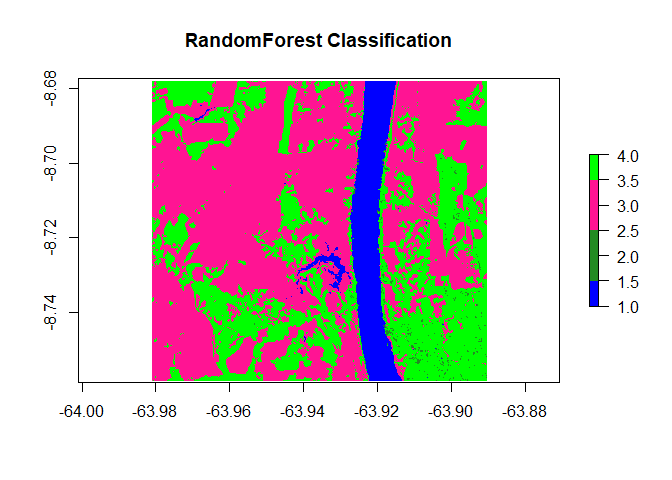
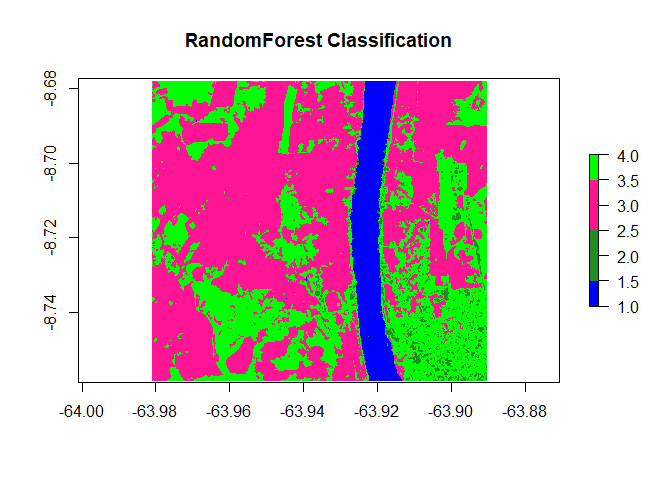
updating Rmd and .md - figures as well

diff --git a/README.md b/README.md
@@ -1,6 +1,4 @@
 
-<!-- README.md is generated from README.Rmd. Please edit that file -->
-
 # ForesToolboxRS <img src="man/figures/logo.png" align="right" width="150"/>
 
 [![License:
@@ -26,7 +24,6 @@ coverage](https://codecov.io/gh/ytarazona/ForesToolboxRS/branch/main/graph/badge
 algorithms for the processing and analysis of satellite images for the
 various applications of Remote Sensing for Earth Observations. All
 implemented algorithms are based on scientific publications.
-<!--there should be a list of references-->
 
   - Tarazona, Y., Maria, Miyasiro-Lopez. (2020). Monitoring tropical
     forest degradation using remote sensing. Challenges and
@@ -65,23 +62,23 @@ satellite images
 
 Available functions:
 
-| Name of functions       | Description                                                                                                                                                                                                                                                                                                         |
-| ----------------------- | ------------------------------------------------------------------------------------------------------------------------------------------------------------------------------------------------------------------------------------------------------------------------------------------------------------------- |
-| **`pvts()`**            | This algorithm will allow to detect disturbances in the forests using all the available Landsat set. In fact, it can also be run with sensors such as MODIS.                                                                                                                                                        |
-| **`pvtsRaster()`**      | This algorithm will allow to detect disturbances in the forests using all the available Landsat set. In fact, it can also be run with sensors such as MODIS.                                                                                                                                                        |
-| **`smootH()`**          | In order to eliminate outliers in the time series, a temporary smoothing is used.                                                                                                                                                                                                                                   |
-| **`mla()`**             | This developed function allows to execute supervised classification in satellite images through various algorithms.                                                                                                                                                                                                 |
-| **`calmla()`**          | This function allows to calibrate supervised classification in satellite images through various algorithms and using approches such as Set-Approach, Leave-One-Out Cross-Validation (LOOCV), Cross-Validation (k-fold) and Monte Carlo Cross-Validation (MCCV).                                                     |
-| **`rkmeans()`**         | This function allows to classify satellite images using k-means.                                                                                                                                                                                                                                                    |
-| **`calkmeans()`**       | This function allows to calibrate the kmeans algorithm. It is possible to obtain the best k value and the best embedded algorithm in kmeans.                                                                                                                                                                        |
-| **`coverChange()`**     | This algorithm is able to obtain gain and loss in land cover classification.                                                                                                                                                                                                                                        |
-| **`linearTrend()`**     | Linear trend is useful for mapping forest degradation, land degradation, among others. This algorithm is capable of obtaining the slope of an ordinary least-squares linear regression and its reliability (p-value).                                                                                               |
-| **`fusionRS()`**        | This algorithm allows to fusion images coming from different spectral sensors (e.g., optical-optical, optical and SAR or SAR-SAR). Among many of the qualities of this function, it is possible to obtain the contribution (%) of each variable in the fused image.                                                 |
-| **`sma()`**             | The SMA assumes that the energy received, within the field of vision of the remote sensor, can be considered as the sum of the energies received from each dominant endmember. This function addresses a Linear Mixing Model.                                                                                       |
-| **`ndfiSMA()`**         | The NDFI it is sensitive to the state of the canopy cover, and has been successfully applied to monitor forest degradation and deforestation in Peru and Brazil. This index comes from the endmembers Green Vegetation (GV), non-photosynthetic vegetation (NPV), Soil (S) and the reminder is the shade component. |
-| **`tct()`**             | The Tasseled-Cap Transformation is a linear transformation method for various remote sensing data. Not only can it perform volume data compression, but it can also provide parametersassociated with the physical characteristics, such as brightness, greenness and wetness indices.                              |
-| **`gevi()`**            | Greenness Vegetation Index is obtained from the Tasseled Cap Transformation.                                                                                                                                                                                                                                        |
-| **`MosaicFreeCloud()`** | A three-step algorithm for creating a mosaic from satellite imagery (see notes).                                                                                                                                                                                                                                    |
+| Name of functions   | Description                                                                                                                                                                                                                                                                                                         |
+| ------------------- | ------------------------------------------------------------------------------------------------------------------------------------------------------------------------------------------------------------------------------------------------------------------------------------------------------------------- |
+| **`pvts()`**        | This algorithm will allow to detect disturbances in the forests using all the available Landsat set. In fact, it can also be run with sensors such as MODIS.                                                                                                                                                        |
+| **`pvtsRaster()`**  | This algorithm will allow to detect disturbances in the forests using all the available Landsat set. In fact, it can also be run with sensors such as MODIS.                                                                                                                                                        |
+| **`smootH()`**      | In order to eliminate outliers in the time series, a temporary smoothing is used.                                                                                                                                                                                                                                   |
+| **`mla()`**         | This developed function allows to execute supervised classification in satellite images through various algorithms.                                                                                                                                                                                                 |
+| **`calmla()`**      | This function allows to calibrate supervised classification in satellite images through various algorithms and using approches such as Set-Approach, Leave-One-Out Cross-Validation (LOOCV), Cross-Validation (k-fold) and Monte Carlo Cross-Validation (MCCV).                                                     |
+| **`rkmeans()`**     | This function allows to classify satellite images using k-means.                                                                                                                                                                                                                                                    |
+| **`calkmeans()`**   | This function allows to calibrate the kmeans algorithm. It is possible to obtain the best k value and the best embedded algorithm in kmeans.                                                                                                                                                                        |
+| **`coverChange()`** | This algorithm is able to obtain gain and loss in land cover classification.                                                                                                                                                                                                                                        |
+| **`linearTrend()`** | Linear trend is useful for mapping forest degradation, land degradation, among others. This algorithm is capable of obtaining the slope of an ordinary least-squares linear regression and its reliability (p-value).                                                                                               |
+| **`fusionRS()`**    | This algorithm allows to fusion images coming from different spectral sensors (e.g., optical-optical, optical and SAR or SAR-SAR). Among many of the qualities of this function, it is possible to obtain the contribution (%) of each variable in the fused image.                                                 |
+| **`sma()`**         | The SMA assumes that the energy received, within the field of vision of the remote sensor, can be considered as the sum of the energies received from each dominant endmember. This function addresses a Linear Mixing Model.                                                                                       |
+| **`ndfiSMA()`**     | The NDFI it is sensitive to the state of the canopy cover, and has been successfully applied to monitor forest degradation and deforestation in Peru and Brazil. This index comes from the endmembers Green Vegetation (GV), non-photosynthetic vegetation (NPV), Soil (S) and the reminder is the shade component. |
+| **`tct()`**         | The Tasseled-Cap Transformation is a linear transformation method for various remote sensing data. Not only can it perform volume data compression, but it can also provide parametersassociated with the physical characteristics, such as brightness, greenness and wetness indices.                              |
+| **`gevi()`**        | Greenness Vegetation Index is obtained from the Tasseled Cap Transformation.                                                                                                                                                                                                                                        |
+| **`indices()`**     | This function allows to obtain several remote sensing spectral indices in the optical domain.                                                                                                                                                                                                                       |
 
 # Installation
 
@@ -287,19 +284,19 @@ print(classRF)
 #> 
 #> ****Overall Accuracy****
 #>       Accuracy          Kappa  AccuracyLower  AccuracyUpper   AccuracyNull 
-#>   7.500000e+01   6.753329e+01   6.260095e+01   8.498444e+01   2.968750e+01 
+#>   9.062500e+01   8.756477e+01   8.070309e+01   9.648127e+01   2.812500e+01 
 #> AccuracyPValue 
-#>   9.738649e-12 
+#>   1.200189e-23 
 #> 
 #> ****Confusion Matrix****
 #>                     1        2   3   4 Total Users_Accuracy Commission
-#> 1                  15  0.00000   0   0    15      100.00000    0.00000
-#> 2                   0  3.00000   0   0     3      100.00000    0.00000
-#> 3                   0  0.00000  18   0    18      100.00000    0.00000
-#> 4                   0 16.00000   0  12    28       42.85714   57.14286
-#> Total              15 19.00000  18  12    NA             NA         NA
-#> Producer_Accuracy 100 15.78947 100 100    NA             NA         NA
-#> Omission            0 84.21053   0   0    NA             NA         NA
+#> 1                  17  0.00000   0   0    17      100.00000    0.00000
+#> 2                   0 12.00000   0   0    12      100.00000    0.00000
+#> 3                   0  0.00000  16   0    16      100.00000    0.00000
+#> 4                   0  6.00000   0  13    19       68.42105   31.57895
+#> Total              17 18.00000  16  13    NA             NA         NA
+#> Producer_Accuracy 100 66.66667 100 100    NA             NA         NA
+#> Omission            0 33.33333   0   0    NA             NA         NA
 #> 
 #> ****Classification Map****
 #> class      : RasterLayer 
